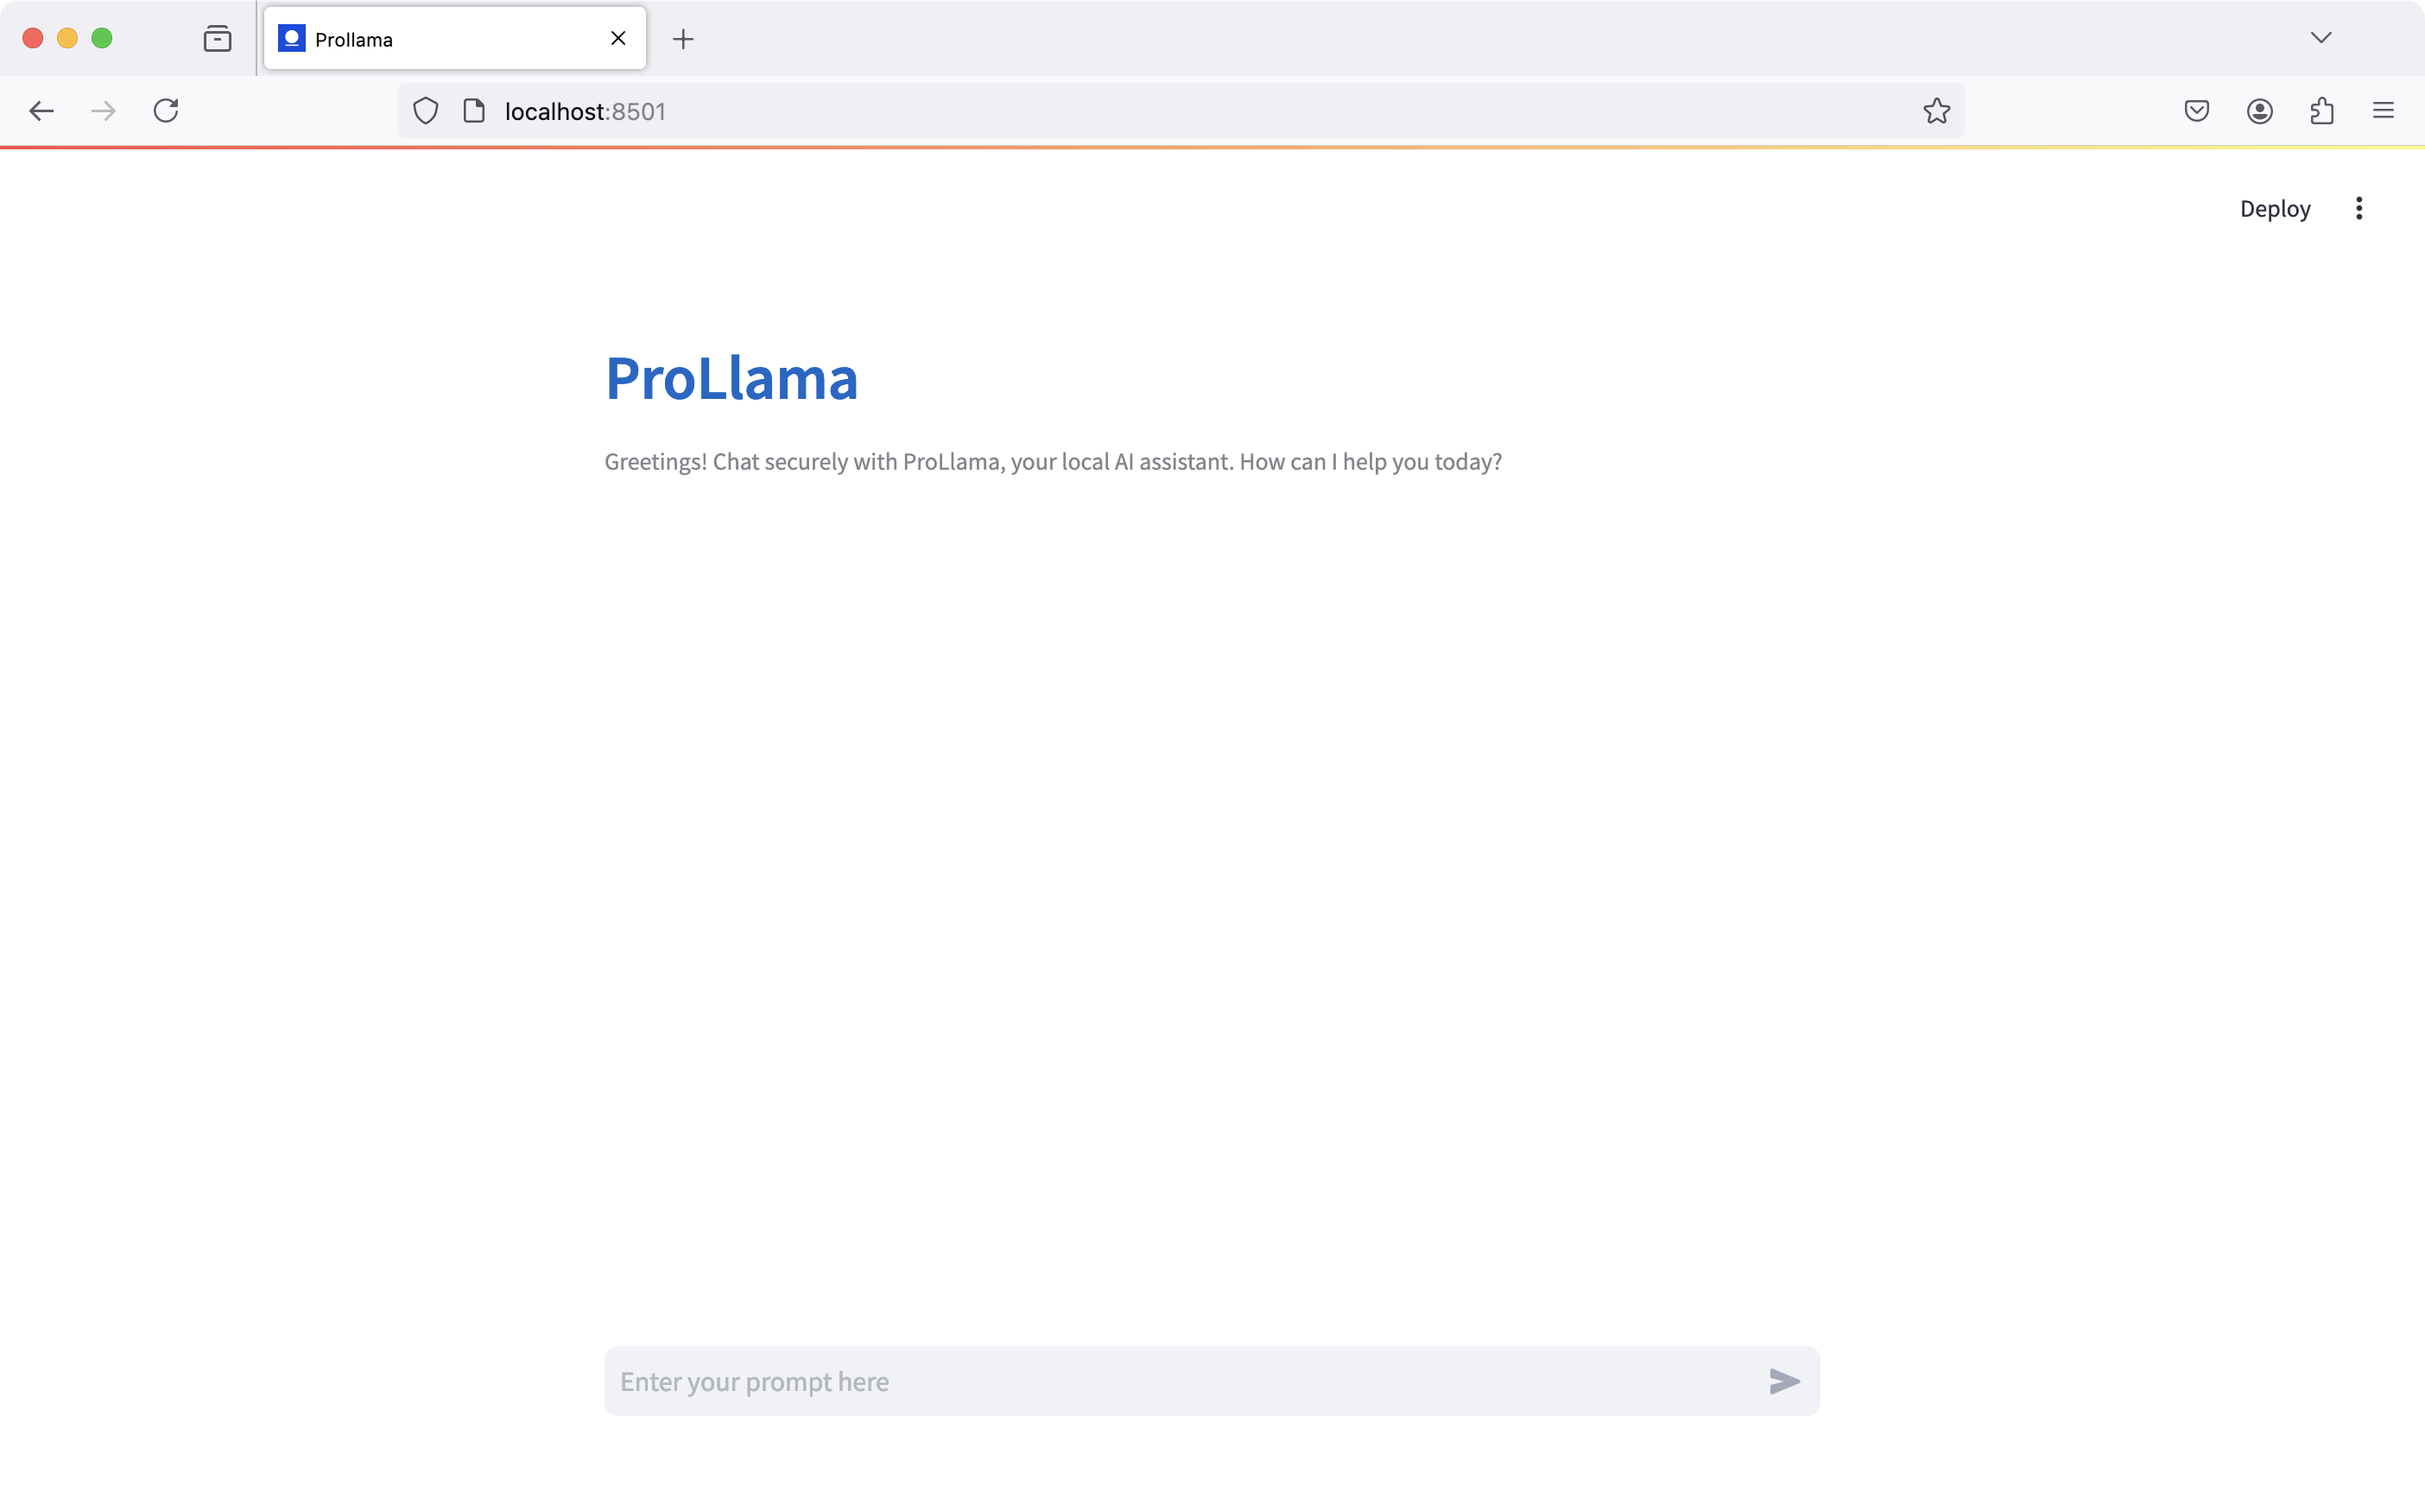
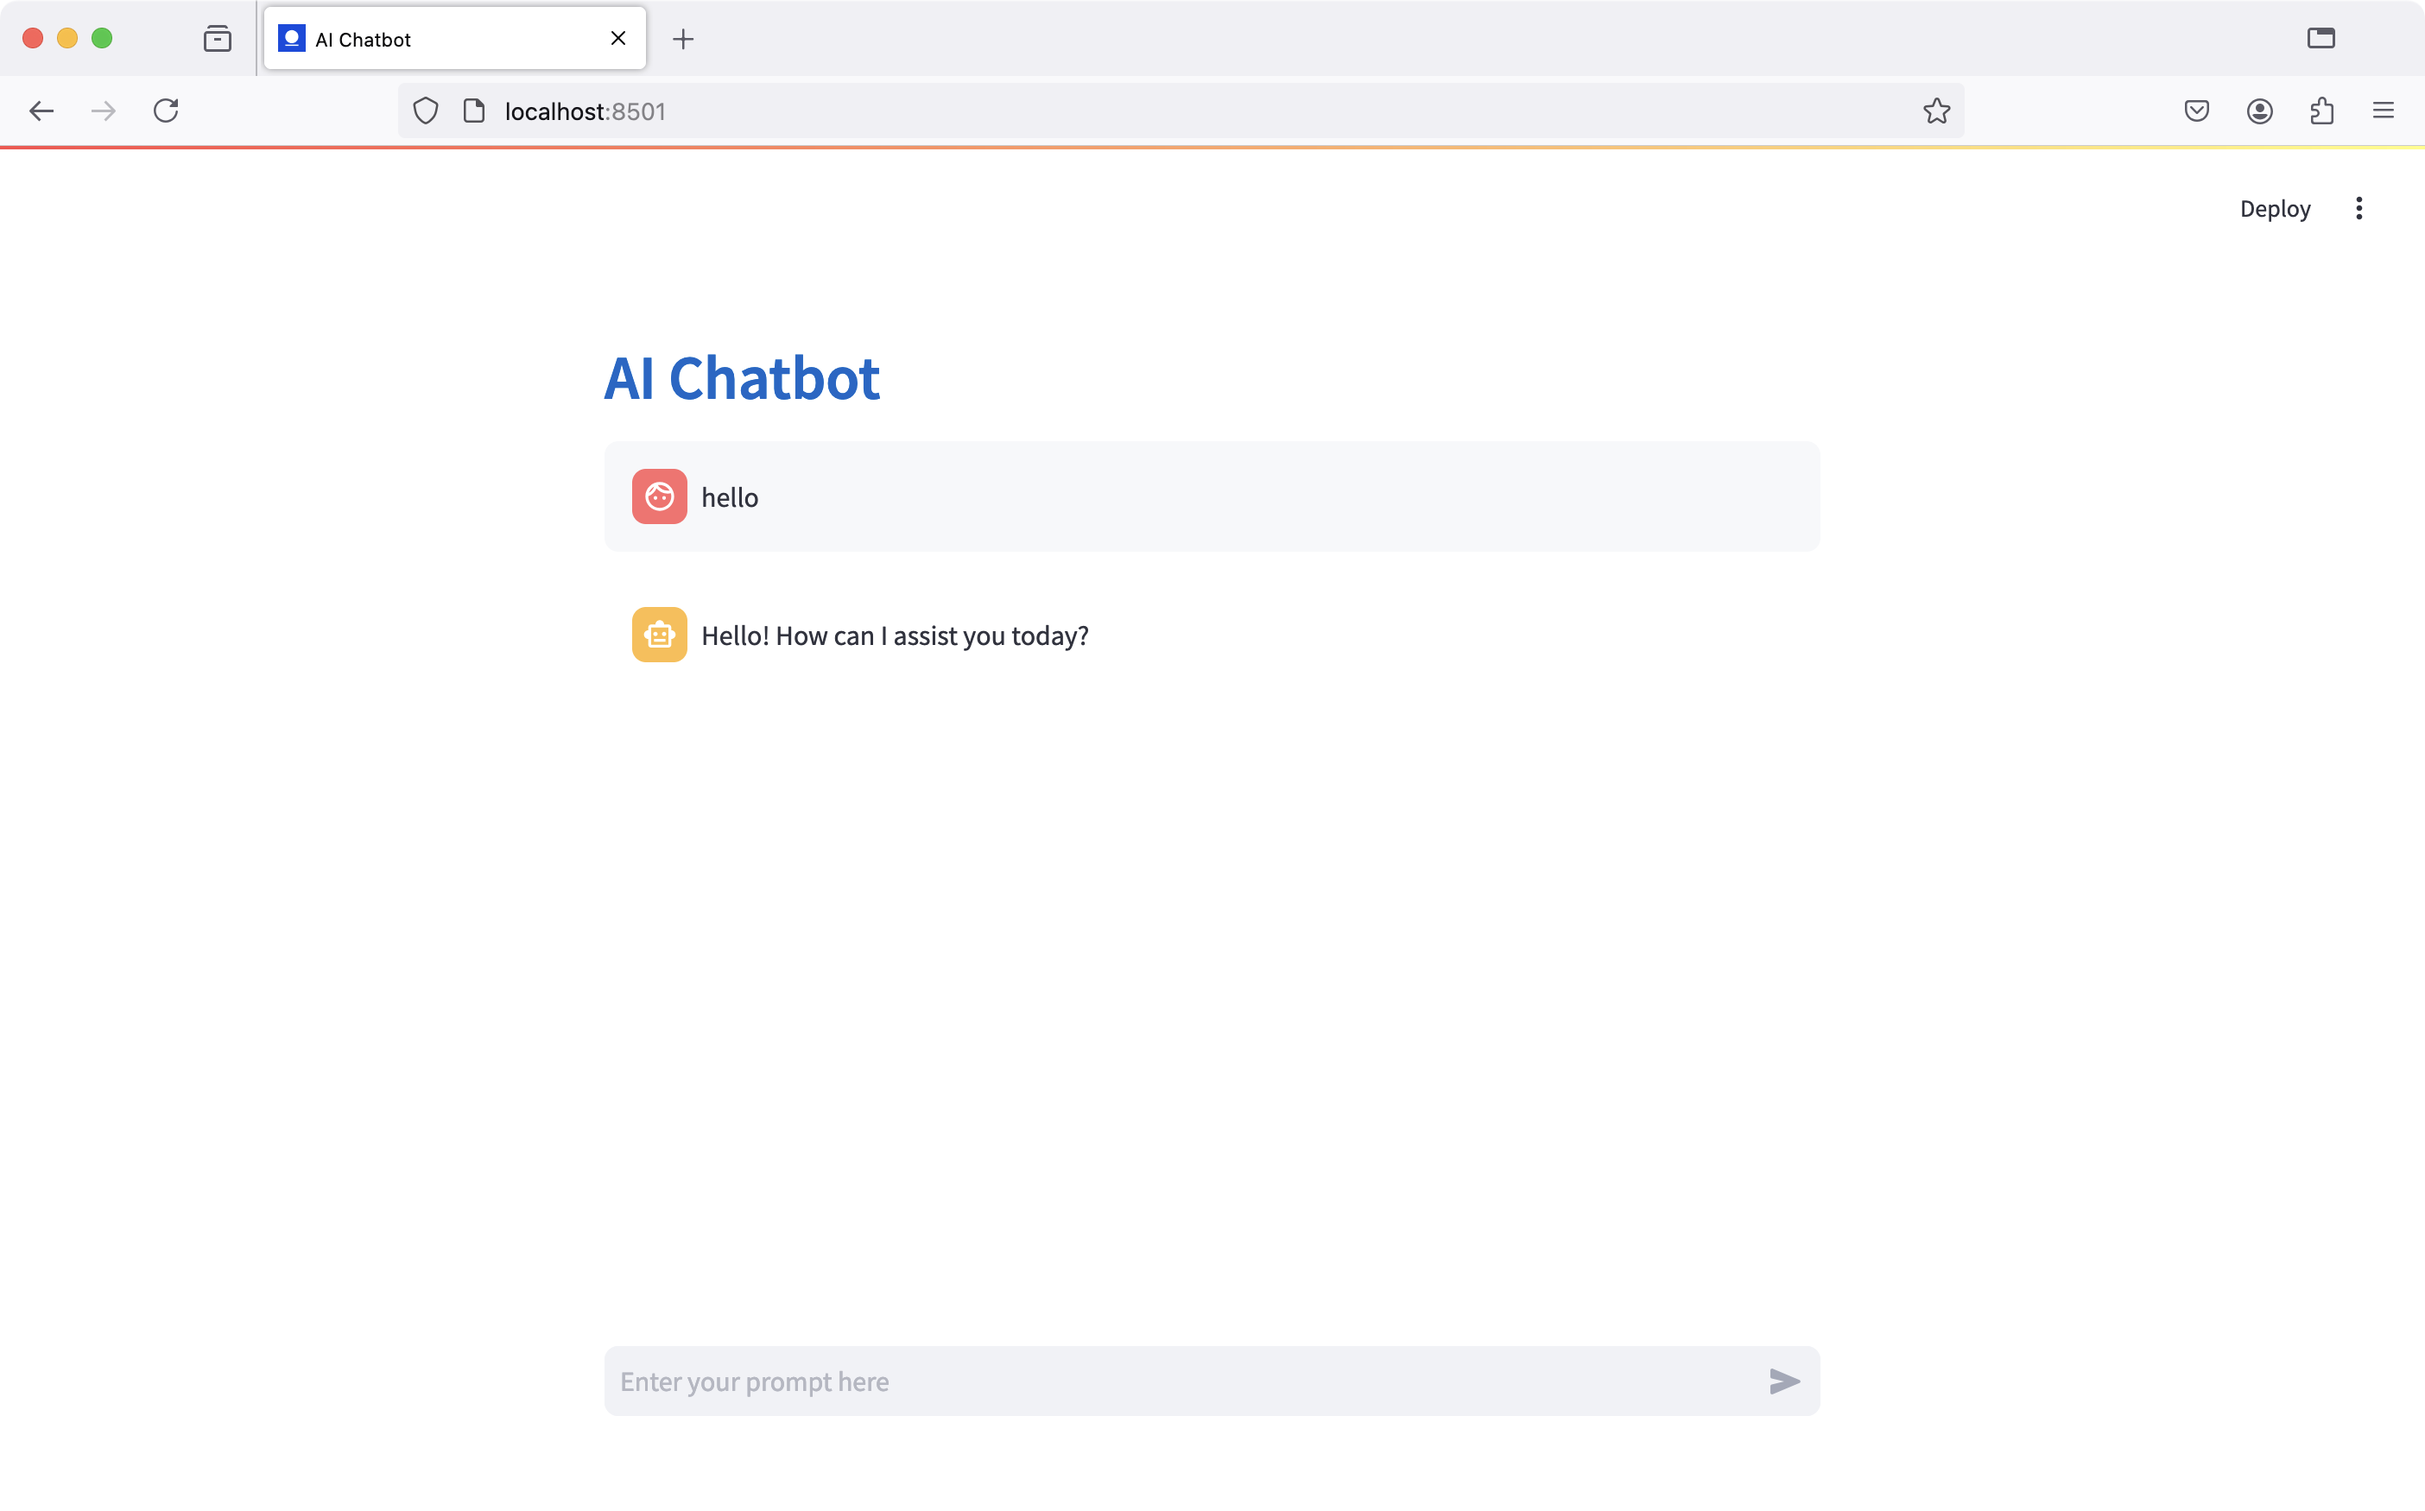
Rename project to ollama streamlit template

diff --git a/app.py b/app.py
@@ -3,7 +3,7 @@ import ollama
 import time
 
 
-def askllm(message, model='llama3.1'):
+def askllm(message, model='llama3.2'):
     try:
         response = ollama.chat(model=model, messages=[{'role': 'user', 'content': message}])
         return response['message']['content']
@@ -30,30 +30,29 @@ def show_messages():
 
 def main():
     st.set_page_config(
-        page_title="Prollama",
+        page_title="AI Chatbot",
         page_icon="favicon.png",
         initial_sidebar_state="collapsed",
         menu_items=None
     )
     
-    st.header(":blue[ProLlama]")
+    st.header(":blue[AI Chatbot]")
     user_input = st.chat_input("Enter your prompt here", key="1")
 
-    # Show placeholder text or messages in session
     if 'messages' not in st.session_state:
-        intro_line = f"""Greetings! Chat securely with ProLlama, your local AI assistant. How can I help you today?"""
+        intro_line = f"""Greetings! Chat securely with your local AI assistant. How can I help you today?"""
         st.caption(intro_line)
         st.session_state['messages'] = []
     show_messages()
 
     if user_input:
-        with st.chat_message("user"): # Receive user prompt
+        with st.chat_message("user"):
             st.write(user_input)
         st.session_state.messages.append({"role": "user", "content": user_input})
         messages = "\n".join(msg["content"] for msg in st.session_state.messages)
-        response = askllm(messages) # Send prompt to LLM
+        response = askllm(messages)
         st.session_state.messages.append({"role": "assistant", "content": response})
-        with st.chat_message("assistant"): # Show response to user
+        with st.chat_message("assistant"):
             st.write_stream(stream_response(response))
     elif st.session_state['messages'] is None:
         st.info("Enter a prompt to start the conversation")

diff --git a/README.md b/README.md
@@ -1,6 +1,6 @@
-# ProLlama - A Simple Local AI Chatbot Interface
+# Ollama Streamlit Chatbot Template
 
-ProLlama is a chatbot interface written in Python using the Streamlit library. It connects to your local Llama 3.1 model through Ollama, ensuring privacy and security.
+This project is a chatbot example written in Python using the Streamlit library. It connects to your local LLM models through Ollama, ensuring privacy and security.
 
 ![screenshot](screenshot.png)
 
@@ -15,15 +15,15 @@ ProLlama is a chatbot interface written in Python using the Streamlit library. I
 
 3. Download and run the Llama 3 model:
    ```
-   ollama run llama3.1
+   ollama run llama3.2
    ```
 ## Running ProLlama with Python
 
 ### Set Up Environment
 
-1. Navigate to the project directory:
+1. Navigate to this project directory:
    ```
-   cd your-work-directory/prollama
+   cd your-work-directory
    ```
 
 2. Create and activate a virtual environment:
@@ -39,18 +39,7 @@ ProLlama is a chatbot interface written in Python using the Streamlit library. I
 
 ### Start the Chatbot
 
-1. Launch ProLlama:
+1. Launch App:
    ```
    streamlit run app.py
-   ```
-
-## Docker Deployment
-
-1. Build the Docker image:
-   ```
-   docker buildx build --platform=linux/amd64 -t prollama:version-tag .
-   ```
-2. Run the Docker image:
-   ```
-   docker run -p 8501:8501 prollama:version-tag
    ```
